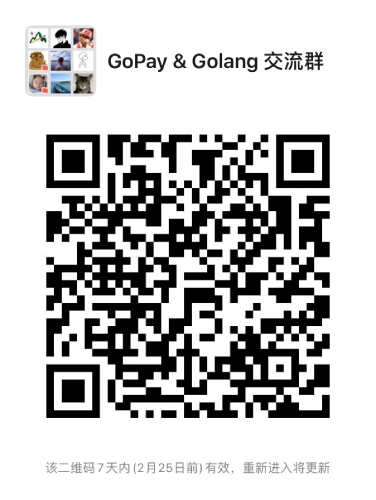
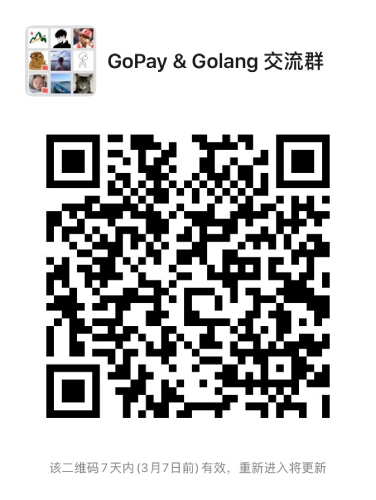
update

Changed region(s): [[0.117, 0.27, 0.8777, 0.84], [0.117, 0.9, 0.8777, 0.96]]

diff --git a/README.md b/README.md
@@ -154,8 +154,8 @@ func main() {
 
 QQ群：
 <img width="226" height="300" src="https://raw.githubusercontent.com/iGoogle-ink/gopay/master/qq_gopay.png"/>
-加微信拉群：
-<img width="226" height="300" src="https://raw.githubusercontent.com/iGoogle-ink/gopay/master/wechat_jerry.png"/>
+微信群：
+<img width="226" height="300" src="https://raw.githubusercontent.com/iGoogle-ink/gopay/master/wechat_gopay.png"/>
 
 ---
 
